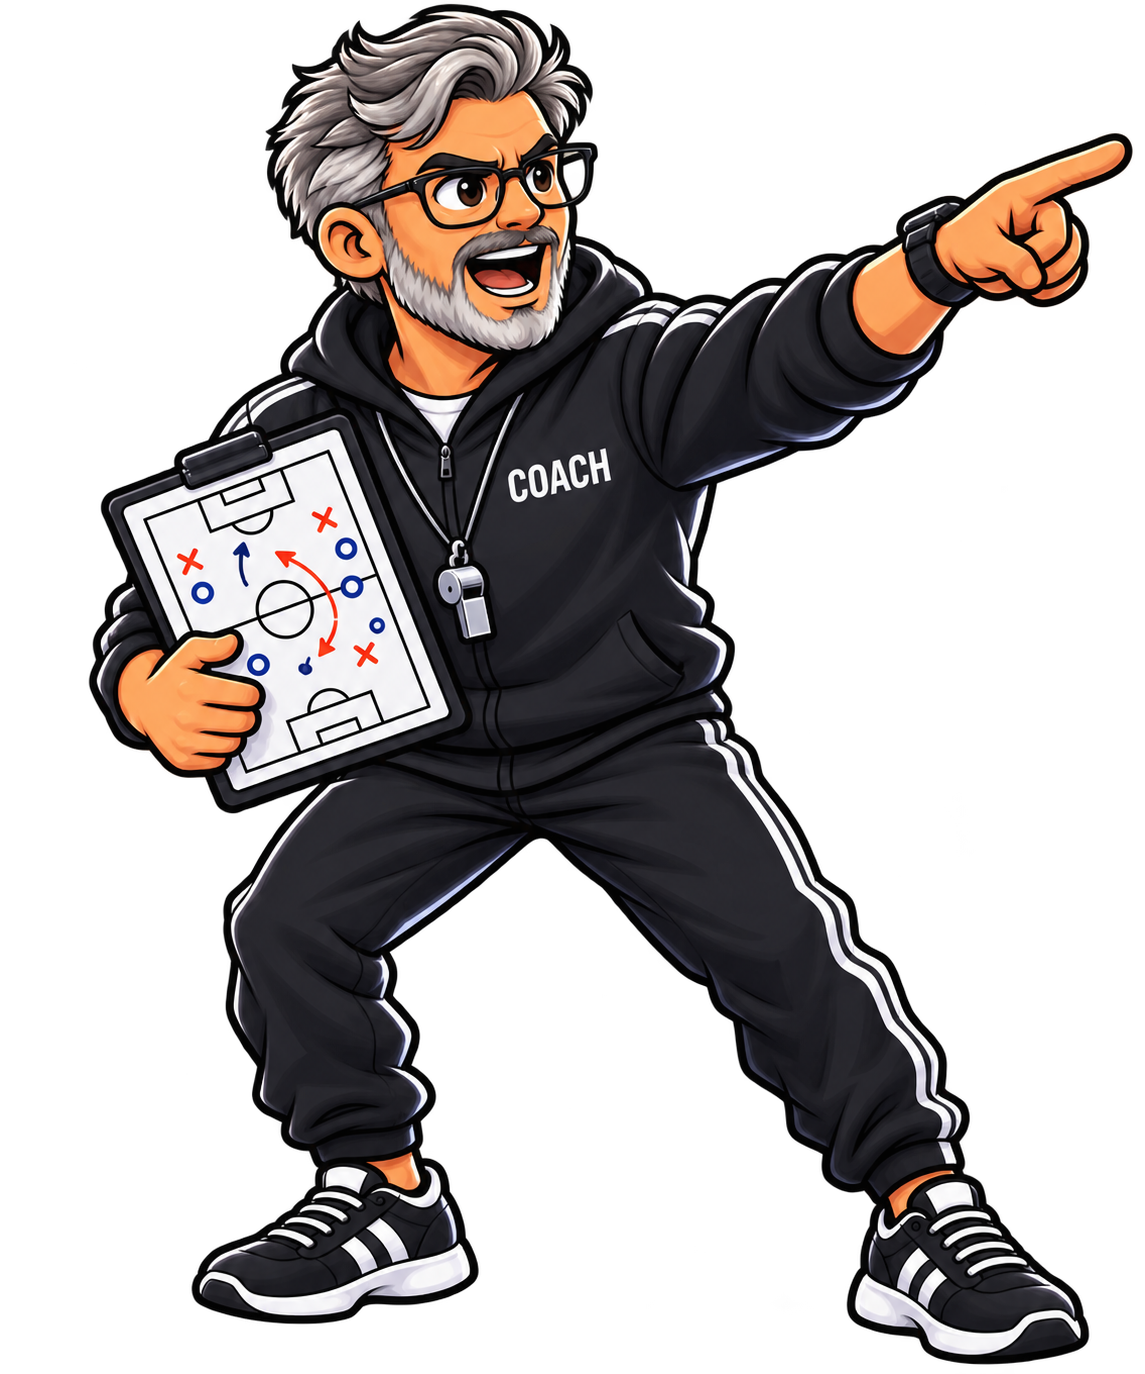
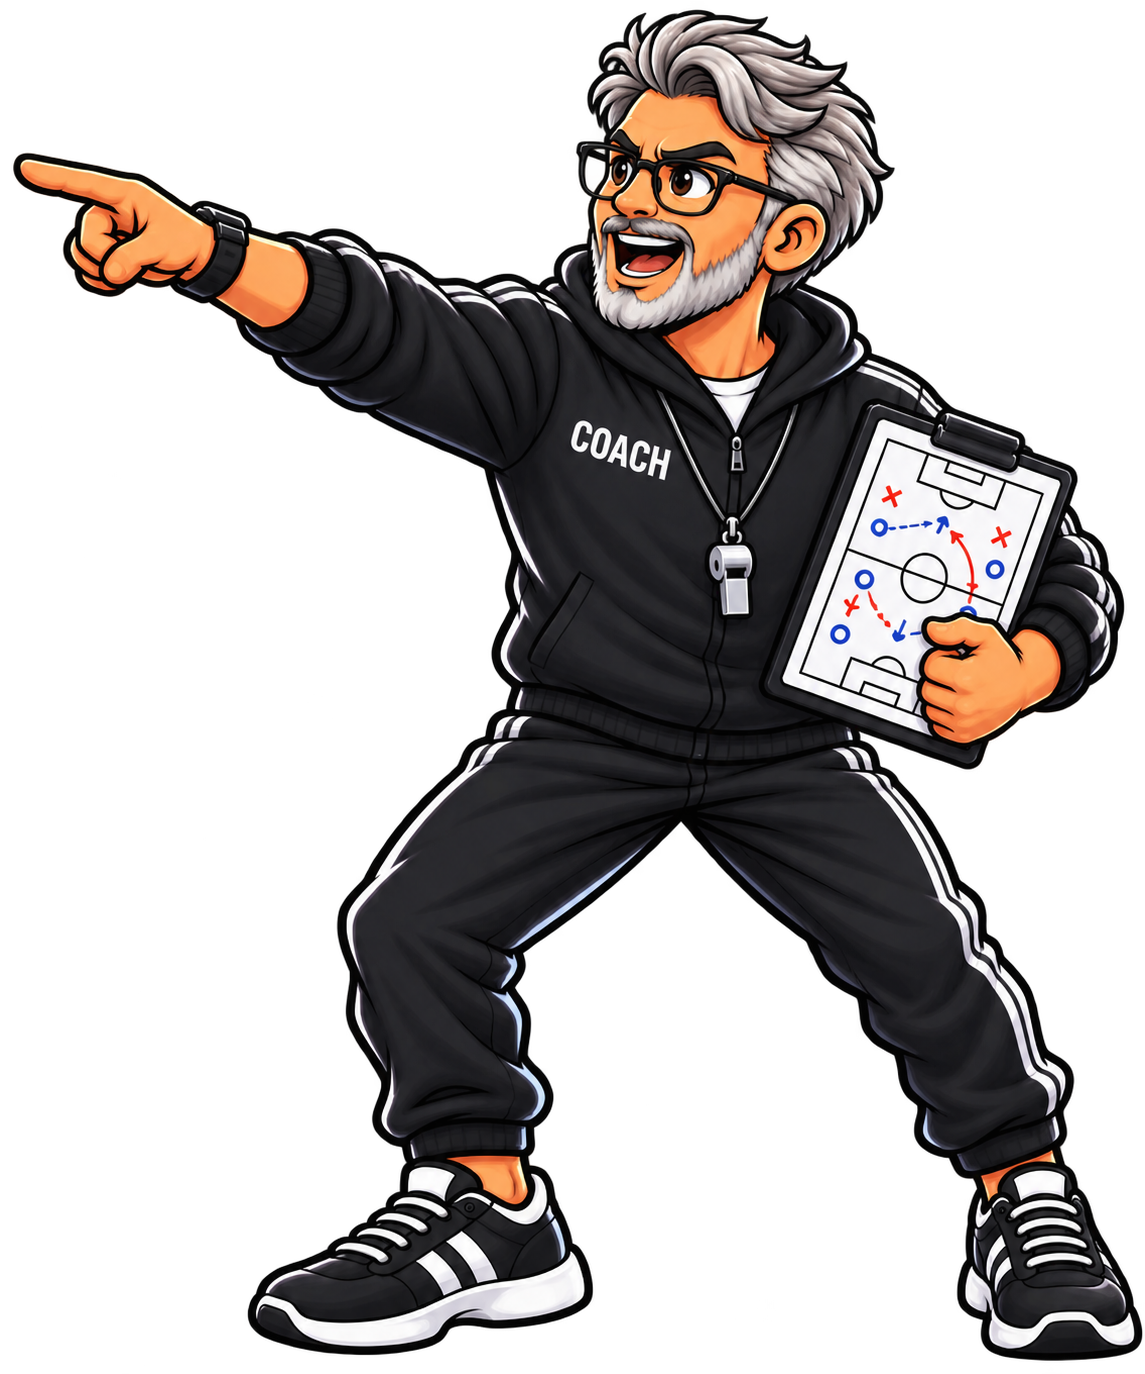
Refresh coach image
Claude-Session: https://claude.ai/code/session_01SJFgZ3ntddE1JVA3buEB2q

diff --git a/talk/index.html b/talk/index.html
@@ -398,7 +398,7 @@
       </g>
       <text data-obj="st-caption" x="1060" y="990" class="caption">one-line fix</text>
     </svg>
-    <img class="place figure" data-obj="coach" src="img/coach.png" alt="" style="left: 4640px; top: 3600px; width: 500px;">
+    <img class="place figure" data-obj="coach" src="img/coach.png?v=2" alt="" style="left: 4640px; top: 3600px; width: 500px;">
     <span data-obj="ai-boost" data-mirror="poster" hidden></span>
 
     <div class="place stamp" data-obj="stamp5" style="left: 3900px; top: 1760px;">Does not exist</div>
